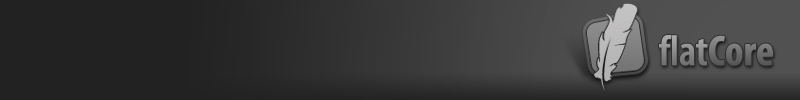
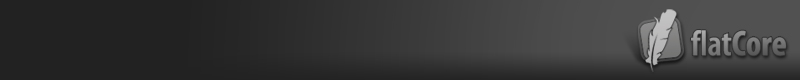
minor optical changes (acp)

Changed region(s): [[0.7188, 0.025, 1.0, 0.85]]

diff --git a/acp/css/styles.css b/acp/css/styles.css
@@ -20,8 +20,8 @@ body {
 
 /* Layout */
 div#bigHeader {
-	height: 90px;
-	background: #222 url(../images/acp_header.jpg) no-repeat top right;
+	height: 80px;
+	background: #252525 url(../images/acp_header.png) no-repeat top right;
 	border-bottom: 1px solid #666;
 	overflow: hidden;
 }
@@ -196,37 +196,13 @@ ol {
 }
 
 
-.tip {
-	background-color: #222;
-	padding: 5px;
-	border: 1px solid #111;
-	border-radius: 4px;
-	-moz-border-radius: 4px;
-	max-width: 200px;
-}
-
-
-.tip-title {
-	color: #999;
-	font-size: 12px;
-	line-height: 14px;
-	padding: 2px 5px;
-}
-
-.tip-text {
-	display: none;
-}
-
-
-
-
 
 /* Navigation */
 
 div#topNavBox {
 	float: left;
 	margin-left: 20px;
-	margin-top: 55px;
+	margin-top: 45px;
 }
 
 
@@ -290,21 +266,61 @@ a.topnav_selected {
 }
 
 
-a.topnavMini {
+span.mm,
+span.mm-dashboard,
+span.mm-pages,
+span.mm-modules,
+span.mm-files,
+span.mm-user,
+span.mm-system {
 	display: block;
 	float: left;
-	background: #444 url(../images/shiny_buttons.png) repeat-x 0px -100px;
-	color: #222;
-	padding: 4px;
-	margin: 10px 0 0 1px;
-	height: 20px;
-	border: 1px solid #111;
-	border-radius: 3px;
-	-moz-border-radius: 3px;
+	width: 32px;
+	height: 32px;
+	background: transparent url('../images/sprite.png') no-repeat -1000px -1000px;
 }
 
-a.topnavMini:hover {
-	background: #444 url(../images/shiny_buttons.png) repeat-x 0px -100px;
+a.topnav:hover span.mm-dashboard, span.mm-dashboard {
+	background-position: 0 0;
+}
+
+a.topnav_selected span.mm-dashboard {
+	background-position: -32px 0;
+}
+
+a.topnav:hover span.mm-pages, span.mm-pages {
+	background-position: -64px 0;
+}
+a.topnav_selected span.mm-pages {
+	background-position: -96px 0;
+}
+
+a.topnav:hover span.mm-modules, span.mm-modules {
+	background-position: -128px 0;
+}
+a.topnav_selected span.mm-modules {
+	background-position: -160px 0;
+}
+
+a.topnav:hover span.mm-files, span.mm-files {
+	background-position: -192px 0;
+}
+a.topnav_selected span.mm-files {
+	background-position: -224px 0;
+}
+
+a.topnav:hover span.mm-user, span.mm-user {
+	background-position: -256px 0;
+}
+a.topnav_selected span.mm-user {
+	background-position: -288px 0;
+}
+
+a.topnav:hover span.mm-system, span.mm-system {
+	background-position: 0 -32px;
+}
+a.topnav_selected span.mm-system {
+	background-position: -32px -32px;
 }
 
 

diff --git a/acp/core/topNav.php b/acp/core/topNav.php
@@ -54,12 +54,12 @@ default:
 
 echo'<div id="topNavBox">';
 
-echo"<a class='$active[0] tooltip_bottom' href='acp.php?tn=dashboard' title='$lang[tn_dashboard_desc]'><img src='images/mm-dashboard.png'> $lang[tn_dashboard]</a>";
-echo"<a class='$active[1] tooltip_bottom' href='acp.php?tn=pages' title='$lang[tn_pages_desc]'><img src='images/mm-pages.png'> $lang[tn_pages]</a>";
-echo"<a class='$active[2] tooltip_bottom' href='acp.php?tn=moduls' title='$lang[tn_moduls_desc]'><img src='images/mm-modules.png'> $lang[tn_moduls]</a>";
-echo"<a class='$active[3] tooltip_bottom' href='acp.php?tn=filebrowser' title='$lang[tn_filebrowser_desc]'><img src='images/mm-files.png'> $lang[tn_filebrowser]</a>";
-echo"<a class='$active[4] tooltip_bottom' href='acp.php?tn=user' title='$lang[tn_usermanagement_desc]'><img src='images/mm-user.png'> $lang[tn_usermanagement]</a>";
-echo"<a class='$active[5] tooltip_bottom' href='acp.php?tn=system' title='$lang[tn_system_desc]'><img src='images/mm-system.png'> $lang[tn_system]</a>";
+echo"<a class='$active[0] tooltip_bottom' href='acp.php?tn=dashboard' title='$lang[tn_dashboard_desc]'><span class='mm mm-dashboard'></span> $lang[tn_dashboard]</a>";
+echo"<a class='$active[1] tooltip_bottom' href='acp.php?tn=pages' title='$lang[tn_pages_desc]'><span class='mm mm-pages'></span> $lang[tn_pages]</a>";
+echo"<a class='$active[2] tooltip_bottom' href='acp.php?tn=moduls' title='$lang[tn_moduls_desc]'><span class='mm mm-modules'></span> $lang[tn_moduls]</a>";
+echo"<a class='$active[3] tooltip_bottom' href='acp.php?tn=filebrowser' title='$lang[tn_filebrowser_desc]'><span class='mm mm-files'></span> $lang[tn_filebrowser]</a>";
+echo"<a class='$active[4] tooltip_bottom' href='acp.php?tn=user' title='$lang[tn_usermanagement_desc]'><span class='mm mm-user'></span> $lang[tn_usermanagement]</a>";
+echo"<a class='$active[5] tooltip_bottom' href='acp.php?tn=system' title='$lang[tn_system_desc]'><span class='mm mm-system'></span> $lang[tn_system]</a>";
 
 
 echo'</div>';
